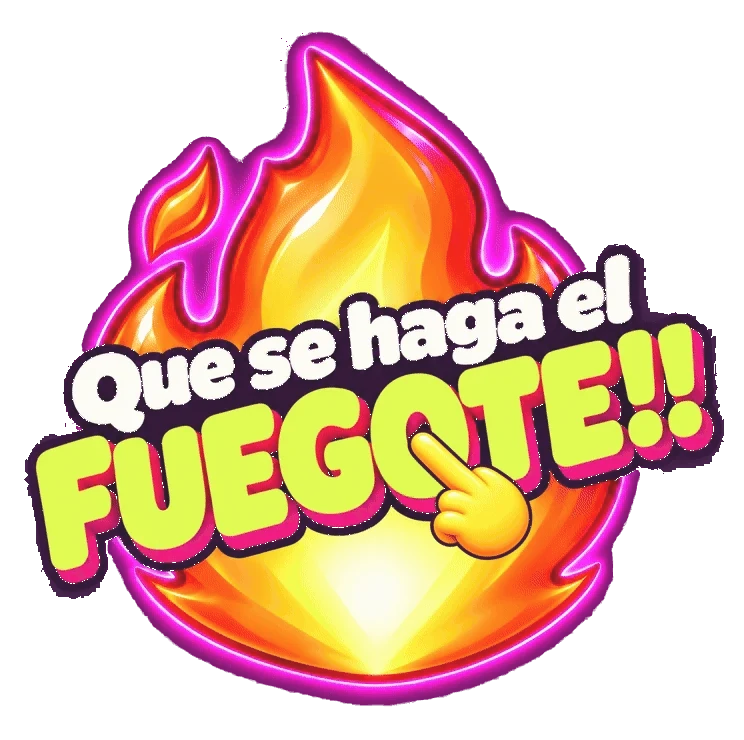
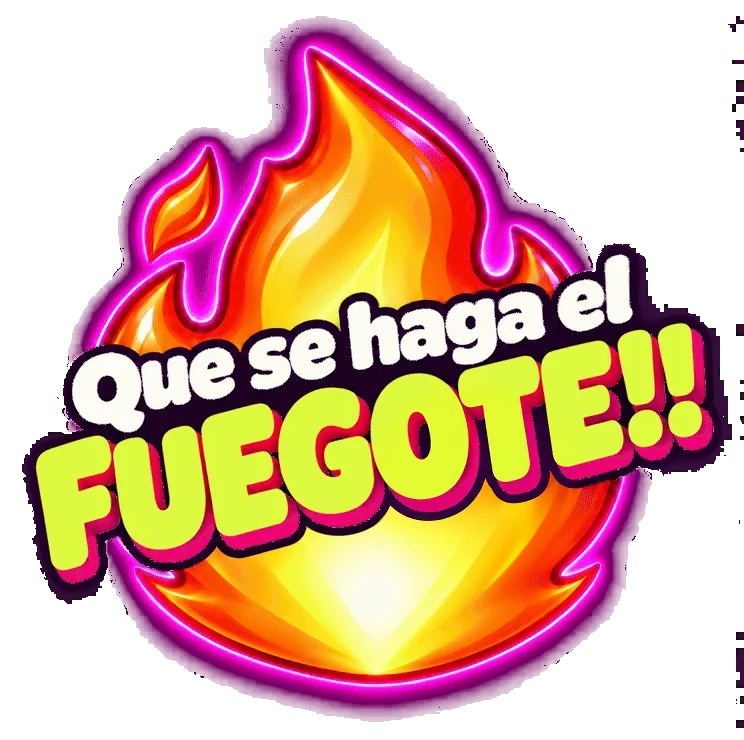
Bounce the whole FUEGOTE artwork and poke the finger into the "O"
The flame, lettering and glow now move as a single block with a
squash-and-stretch bounce, instead of only the top of the flame
wobbling over a split layer. The hand was lifted off the artwork (the
"O" underneath is restored from the hand-free version) and replaced by
a clean Noto 👆 sprite that pokes into the hole of the "O": the hole's
dark interior is drawn above the finger so its tip sinks in.

Claude-Session: https://claude.ai/code/session_01TvAFQqhA8NhGsPhwnrAqq8

diff --git a/apps/web/styles.css b/apps/web/styles.css
@@ -502,28 +502,42 @@ body:has(.game-page) {
 .menu-button span { font-size:23px; }
 .menu-button:active { transform:translate(3px,4px); box-shadow:2px 2px var(--black); }
 @media(hover:hover) { .menu-button:hover { transform:translateY(-3px) rotate(-.5deg); box-shadow:6px 9px var(--black); } }
-/* Home action: the "Que se haga el FUEGOTE!!" artwork is the button. The fire layer
-   wobbles under a static lettering layer, so the words stay readable while it burns. */
+/* Home action: the "Que se haga el FUEGOTE!!" artwork is the button. The whole artwork bounces
+   as one block while the finger pokes into the hole of the "O". */
 .menu-actions { justify-items:center; }
 .fuegote-button {
  position:relative; isolation:isolate; display:block; width:clamp(210px,min(76vw,36svh),340px); aspect-ratio:744 / 740; padding:0;
  border:0; background:none; cursor:pointer; -webkit-tap-highlight-color:transparent; transition:transform .18s;
 }
-.fuegote-art { position:relative; display:block; width:100%; height:100%; overflow:visible; animation:fuegote-glow 1.9s ease-in-out infinite; }
-.fuegote-fire { filter:url(#fuegote-fire); transform-box:fill-box; transform-origin:50% 96%; animation:fuegote-lick 1.25s ease-in-out infinite; }
-.fuegote-words { transform-box:fill-box; transform-origin:50% 55%; animation:fuegote-press 1.9s ease-in-out infinite; }
-.fuegote-heat { position:absolute; inset:14% 12% 4%; z-index:-1; border-radius:50%; background:radial-gradient(closest-side,#ffb13b8c,#ff4d6d40 55%,transparent); filter:blur(14px); animation:fuegote-heat 1.9s ease-in-out infinite; }
+.fuegote-block { position:absolute; inset:0; transform-origin:50% 96%; animation:fuegote-bounce .9s cubic-bezier(.45,0,.55,1) infinite; }
+.fuegote-block img { position:absolute; display:block; pointer-events:none; user-select:none; -webkit-user-drag:none; }
+.fuegote-art { inset:0; width:100%; height:100%; filter:drop-shadow(0 0 14px #ff4fb066) drop-shadow(0 6px 5px #160d2680); }
+.fuegote-hand { left:55.34%; top:57.74%; width:18.82%; transform-origin:4% 3%; filter:drop-shadow(0 3px 2px #160d2666); animation:fuegote-poke 1.8s ease-in-out infinite; }
+.fuegote-hole { left:54.57%; top:55.41%; width:3.63%; }
+.fuegote-heat { position:absolute; inset:14% 12% 4%; z-index:-1; border-radius:50%; background:radial-gradient(closest-side,#ffb13b8c,#ff4d6d40 55%,transparent); filter:blur(14px); animation:fuegote-heat .9s ease-in-out infinite; }
 .fuegote-embers { position:absolute; inset:0 10% 40%; pointer-events:none; }
 .fuegote-embers i { position:absolute; left:var(--x); bottom:0; width:var(--size); height:var(--size); border-radius:50%; background:radial-gradient(circle,#fff6c4,#ffb13b 45%,#ff5a2a); box-shadow:0 0 8px 2px #ff8a3a99; opacity:0; animation:fuegote-ember var(--time) ease-out var(--delay) infinite; }
 .fuegote-button:active { transform:scale(.95); }
 .fuegote-button:focus-visible { outline:3px solid var(--paper); outline-offset:2px; border-radius:28px; }
 @media(hover:hover) { .fuegote-button:hover { transform:translateY(-3px) scale(1.03); } }
-@keyframes fuegote-glow { 0%,100% { filter:drop-shadow(0 0 10px #ff3fb455) drop-shadow(0 6px 5px #160d2680); } 50% { filter:drop-shadow(0 0 22px #ff6a3dbb) drop-shadow(0 6px 5px #160d2680); } }
-@keyframes fuegote-lick { 0%,100% { transform:scale(1,1); } 25% { transform:scale(1.012,1.035) skewX(-.8deg); } 55% { transform:scale(.992,1.015) skewX(.6deg); } 80% { transform:scale(1.008,1.045) skewX(-.4deg); } }
-@keyframes fuegote-press { 0%,100% { transform:scale(1); } 50% { transform:scale(1.025); } }
-@keyframes fuegote-heat { 0%,100% { opacity:.65; transform:scale(.96); } 50% { opacity:1; transform:scale(1.06); } }
+@keyframes fuegote-bounce {
+ 0%,100% { transform:translateY(0) scale(1.05,.95); }
+ 18% { transform:translateY(-3%) scale(.97,1.04); }
+ 48% { transform:translateY(-8%) scale(1,1); }
+ 78% { transform:translateY(-2%) scale(.99,1.02); }
+}
+@keyframes fuegote-poke {
+ 0%,8% { transform:translate(38%,42%) rotate(4deg); }
+ 34% { transform:translate(0,0) rotate(0); }
+ 44% { transform:translate(-7%,-8%) scale(.96); }
+ 54% { transform:translate(0,0); }
+ 64% { transform:translate(-7%,-8%) scale(.96); }
+ 76% { transform:translate(0,0); }
+ 100% { transform:translate(38%,42%) rotate(4deg); }
+}
+@keyframes fuegote-heat { 0%,100% { opacity:.6; transform:scale(.96); } 48% { opacity:1; transform:scale(1.07); } }
 @keyframes fuegote-ember { 0% { opacity:0; transform:translate(0,0) scale(1); } 15% { opacity:1; } 100% { opacity:0; transform:translate(var(--drift),-110px) scale(.3); } }
-@media(prefers-reduced-motion:reduce) { .fuegote-art,.fuegote-fire,.fuegote-heat,.fuegote-words { animation:none; } .fuegote-fire { filter:none; } .fuegote-embers { display:none; } }
+@media(prefers-reduced-motion:reduce) { .fuegote-block,.fuegote-hand,.fuegote-heat { animation:none; } .fuegote-embers { display:none; } }
 @media(min-width:701px) { .menu-actions { justify-items:start; } }
 .menu-home .menu-wrap { min-height:100svh; display:grid; align-items:center; }
 .menu-home .menu-hero { width:100%; padding-block:40px; }

diff --git a/apps/web/app.js b/apps/web/app.js
@@ -74,14 +74,10 @@ function renderProfile(){
 const FUEGOTE_EMBERS = [[18,0,7,2.6,-14],[30,1.1,5,3.1,-6],[44,.5,8,2.3,4],[56,1.7,5,2.9,-4],[67,.3,6,2.5,10],[78,1.3,7,3.3,16],[38,2.1,4,2.7,-10],[62,2.4,4,3,8]];
 function renderFuegote() {
   const embers = FUEGOTE_EMBERS.map(([x, delay, size, time, drift]) => `<i style="--x:${x}%;--delay:${delay}s;--size:${size}px;--time:${time}s;--drift:${drift}px"></i>`).join('');
+  // One block bounces as a whole; the finger pokes into the hole of the "O" (the hole image sits
+  // above the finger, so its tip sinks in).
   return `<button class="fuegote-button" data-action="open-host" aria-label="Que se haga el fuegote"><span class="fuegote-heat" aria-hidden="true"></span>
-    <svg class="fuegote-art" viewBox="0 0 744 740" aria-hidden="true" focusable="false"><defs>
-      <filter id="fuegote-fire" x="-6%" y="-6%" width="112%" height="112%" color-interpolation-filters="sRGB">
-        <feTurbulence type="fractalNoise" baseFrequency="0.005 0.013" numOctaves="1" seed="7"><animate attributeName="baseFrequency" values="0.005 0.013;0.0065 0.018;0.0045 0.015;0.005 0.013" dur="2.4s" repeatCount="indefinite"/></feTurbulence>
-        <feDisplacementMap in="SourceGraphic" scale="30" xChannelSelector="R" yChannelSelector="G"><animate attributeName="scale" values="22;40;28;36;22" dur="1.7s" repeatCount="indefinite"/></feDisplacementMap>
-      </filter>
-      <mask id="fuegote-letters" maskUnits="userSpaceOnUse" x="0" y="0" width="744" height="740"><image href="./assets/fuegote-text-mask.png" width="744" height="740" preserveAspectRatio="none"/></mask>
-    </defs><image class="fuegote-fire" href="./assets/fuegote-fire.webp" width="744" height="740"/><g class="fuegote-words"><image href="./assets/fuegote.webp" width="744" height="740" mask="url(#fuegote-letters)"/></g></svg>
+    <span class="fuegote-block" aria-hidden="true"><img class="fuegote-art" src="./assets/fuegote.webp" alt="" draggable="false"><img class="fuegote-hand" src="./assets/fuegote-hand.webp" alt="" draggable="false"><img class="fuegote-hole" src="./assets/fuegote-hole.webp" alt="" draggable="false"></span>
     <span class="fuegote-embers" aria-hidden="true">${embers}</span></button>`;
 }
 function renderHome() {

diff --git a/apps/web/sw.js b/apps/web/sw.js
@@ -4,7 +4,7 @@ const ASSETS = ['./mus-table.js','./mus-flow.js','./game-core/games/mus-legacy.j
   './guest.html', './activation-code.js', './host-access.js', './distribution-config.js', './firebase-sdk.js',
   "./game-picker.js", "./board-games.js", "./board-games.css", "./board-motion.js", "./turn-events.js", "./turn-sequence.js", "./turn-sequence.css", "./game-physics.js", "./bot-pacing.js", "./card-paint.js", "./table-speech.js",
   "./catalog-games.js", "./catalog-games.css", "./game-core/games/shared.js", "./game-core/games/boards.js", "./game-core/games/social-cards.js", "./game-core/games/tricks.js", "./game-core/games/melds.js", "./game-core/games/holdem.js",
-  "./assets/elteto-cover-balanced-v5.png", "./assets/fuegote.webp", "./assets/fuegote-fire.webp", "./assets/fuegote-text-mask.png",
+  "./assets/elteto-cover-balanced-v5.png", "./assets/fuegote.webp", "./assets/fuegote-hand.webp", "./assets/fuegote-hole.webp",
   "./avatar-art.js", "./assets/elteto-logo-neon-v3.png", "./assets/elteto-avatars-v3.png",
   "./parchis-dice.js", "./parchis-dice.css",
   "./parchis-board.js", "./parchis-board.css", "./game-core/games/parchis.js",

diff --git a/apps/web/assets/README.md b/apps/web/assets/README.md
@@ -27,3 +27,5 @@ Edit target: the attached ten-character Elteto sprite atlas. Create a sibling di
 Prompt de la edición final, utilizada en el juego:
 
 Precise object edit of this sprite atlas for implementation in a card game. Preserve all ten exact characters, their clearly right-facing three-quarter poses, chairs, shading, positions and the EXACT 5x2 evenly spaced grid and 1536x1024 dimensions. ONLY REMOVE EVERY PURPLE PLAYING CARD from all ten hands. Keep the two hands gently curled in their same positions, with EMPTY TRANSPARENT AIR between and above the hands where the cards were, so the game can insert its live card backs there. Do not leave any card edge, suit or purple paper. Do not change expressions, direction or sizes. Entire background must be actual transparent alpha, no colored backdrop. Every sprite remains complete within its own exact grid cell with transparent padding.
+
+`fuegote-hand.webp` es el emoji 👆 de Noto Color Emoji (licencia SIL Open Font License 1.1), girado y escalado para el botón de la pantalla principal.
